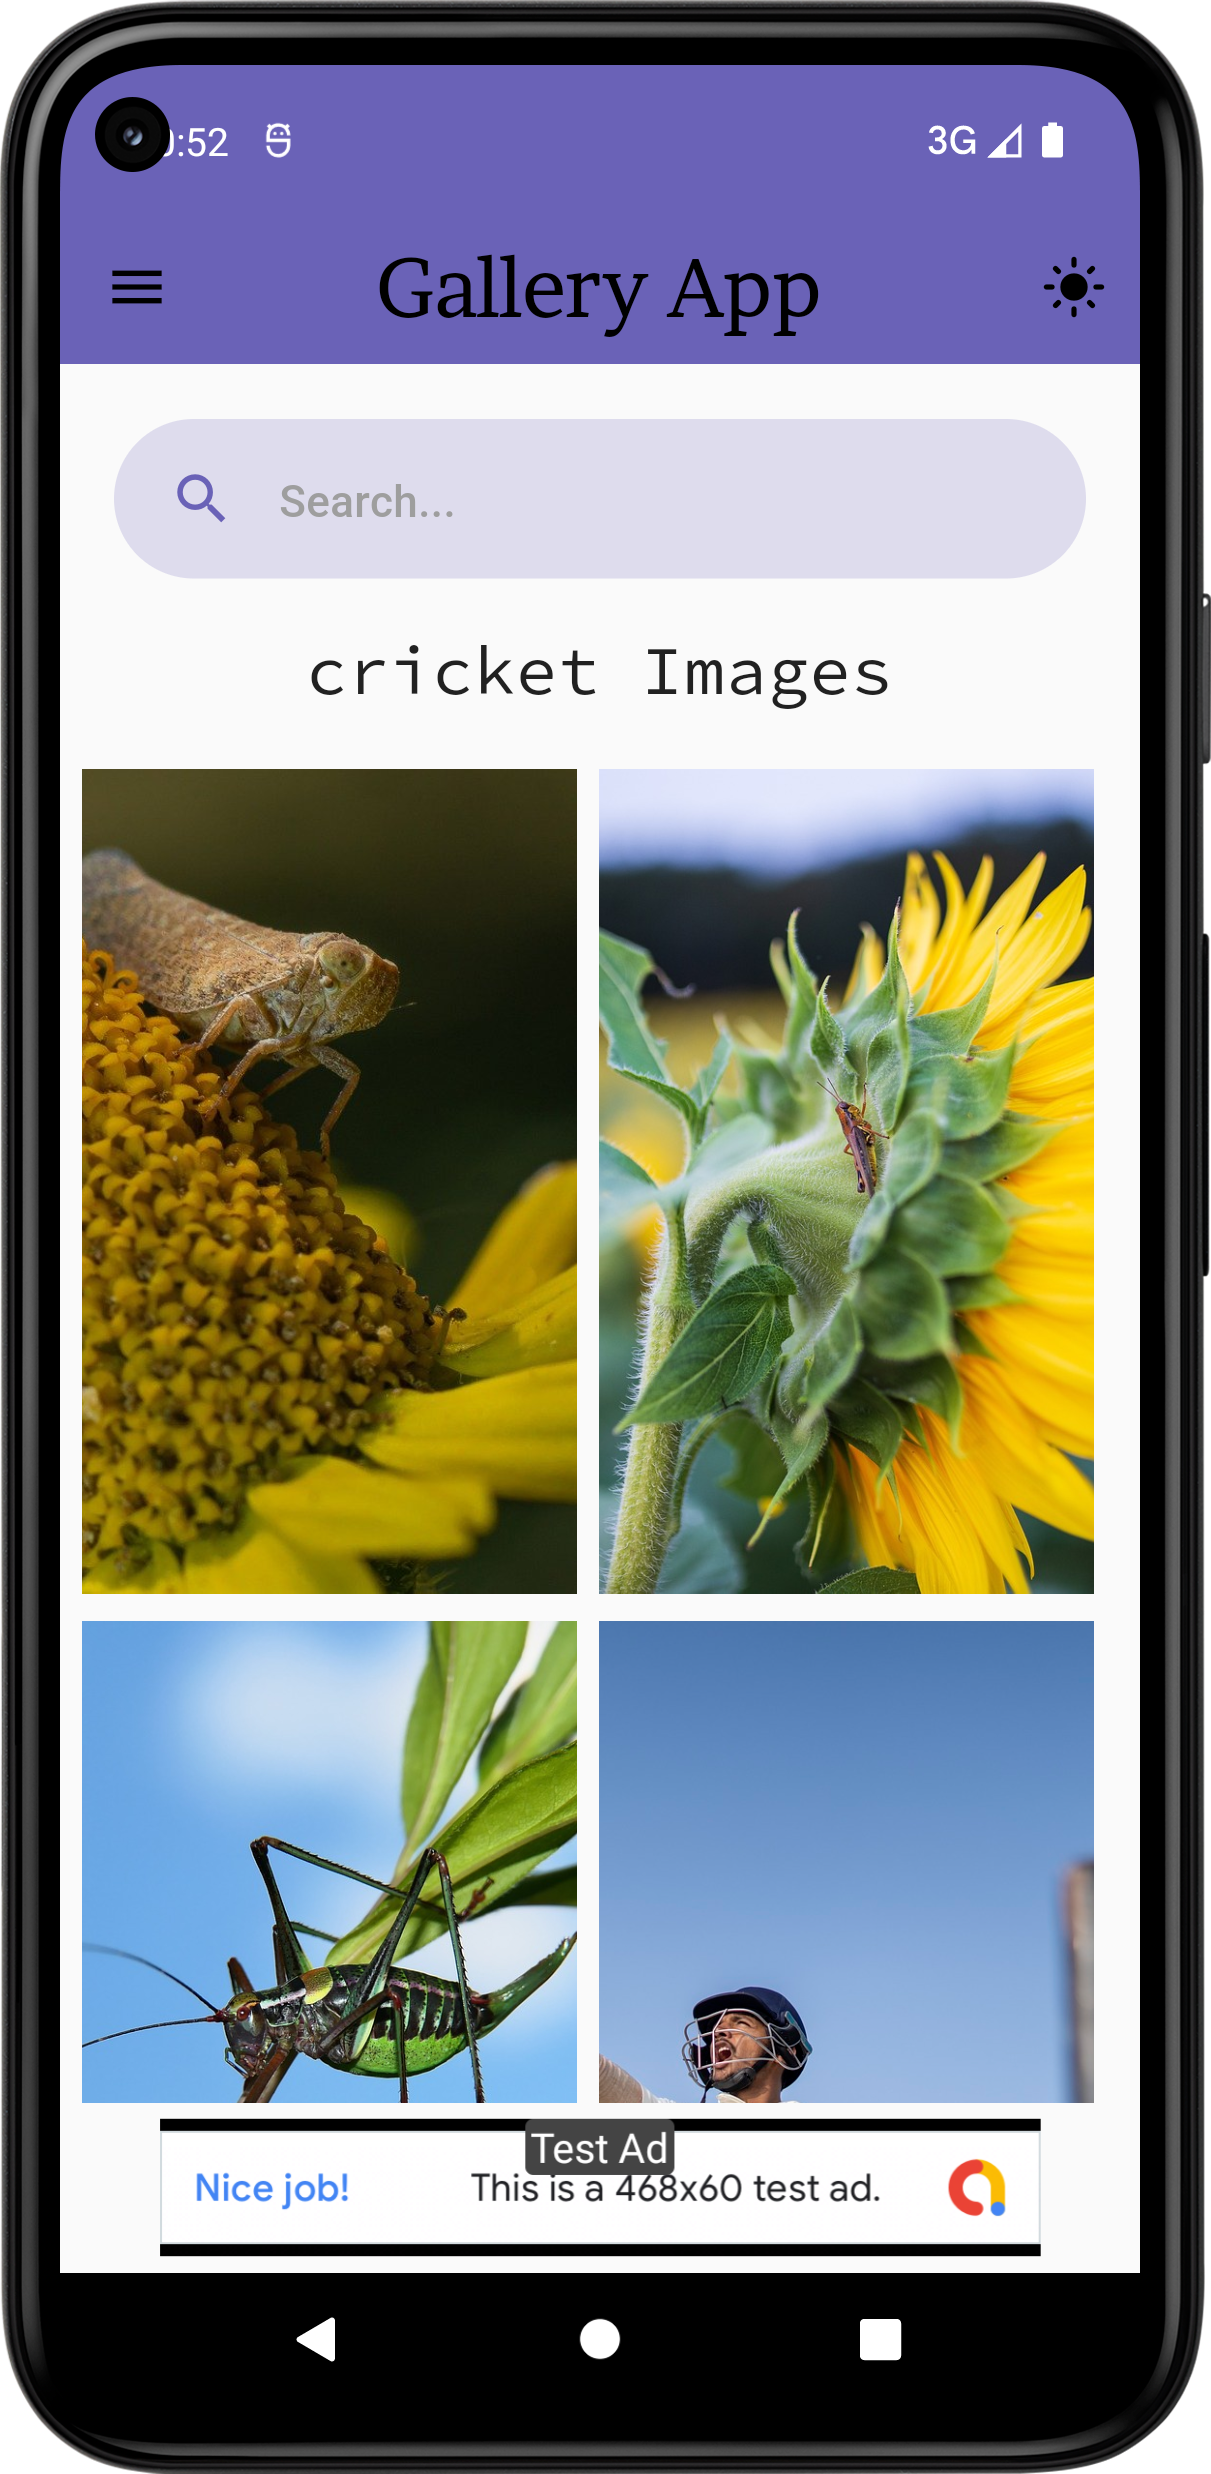
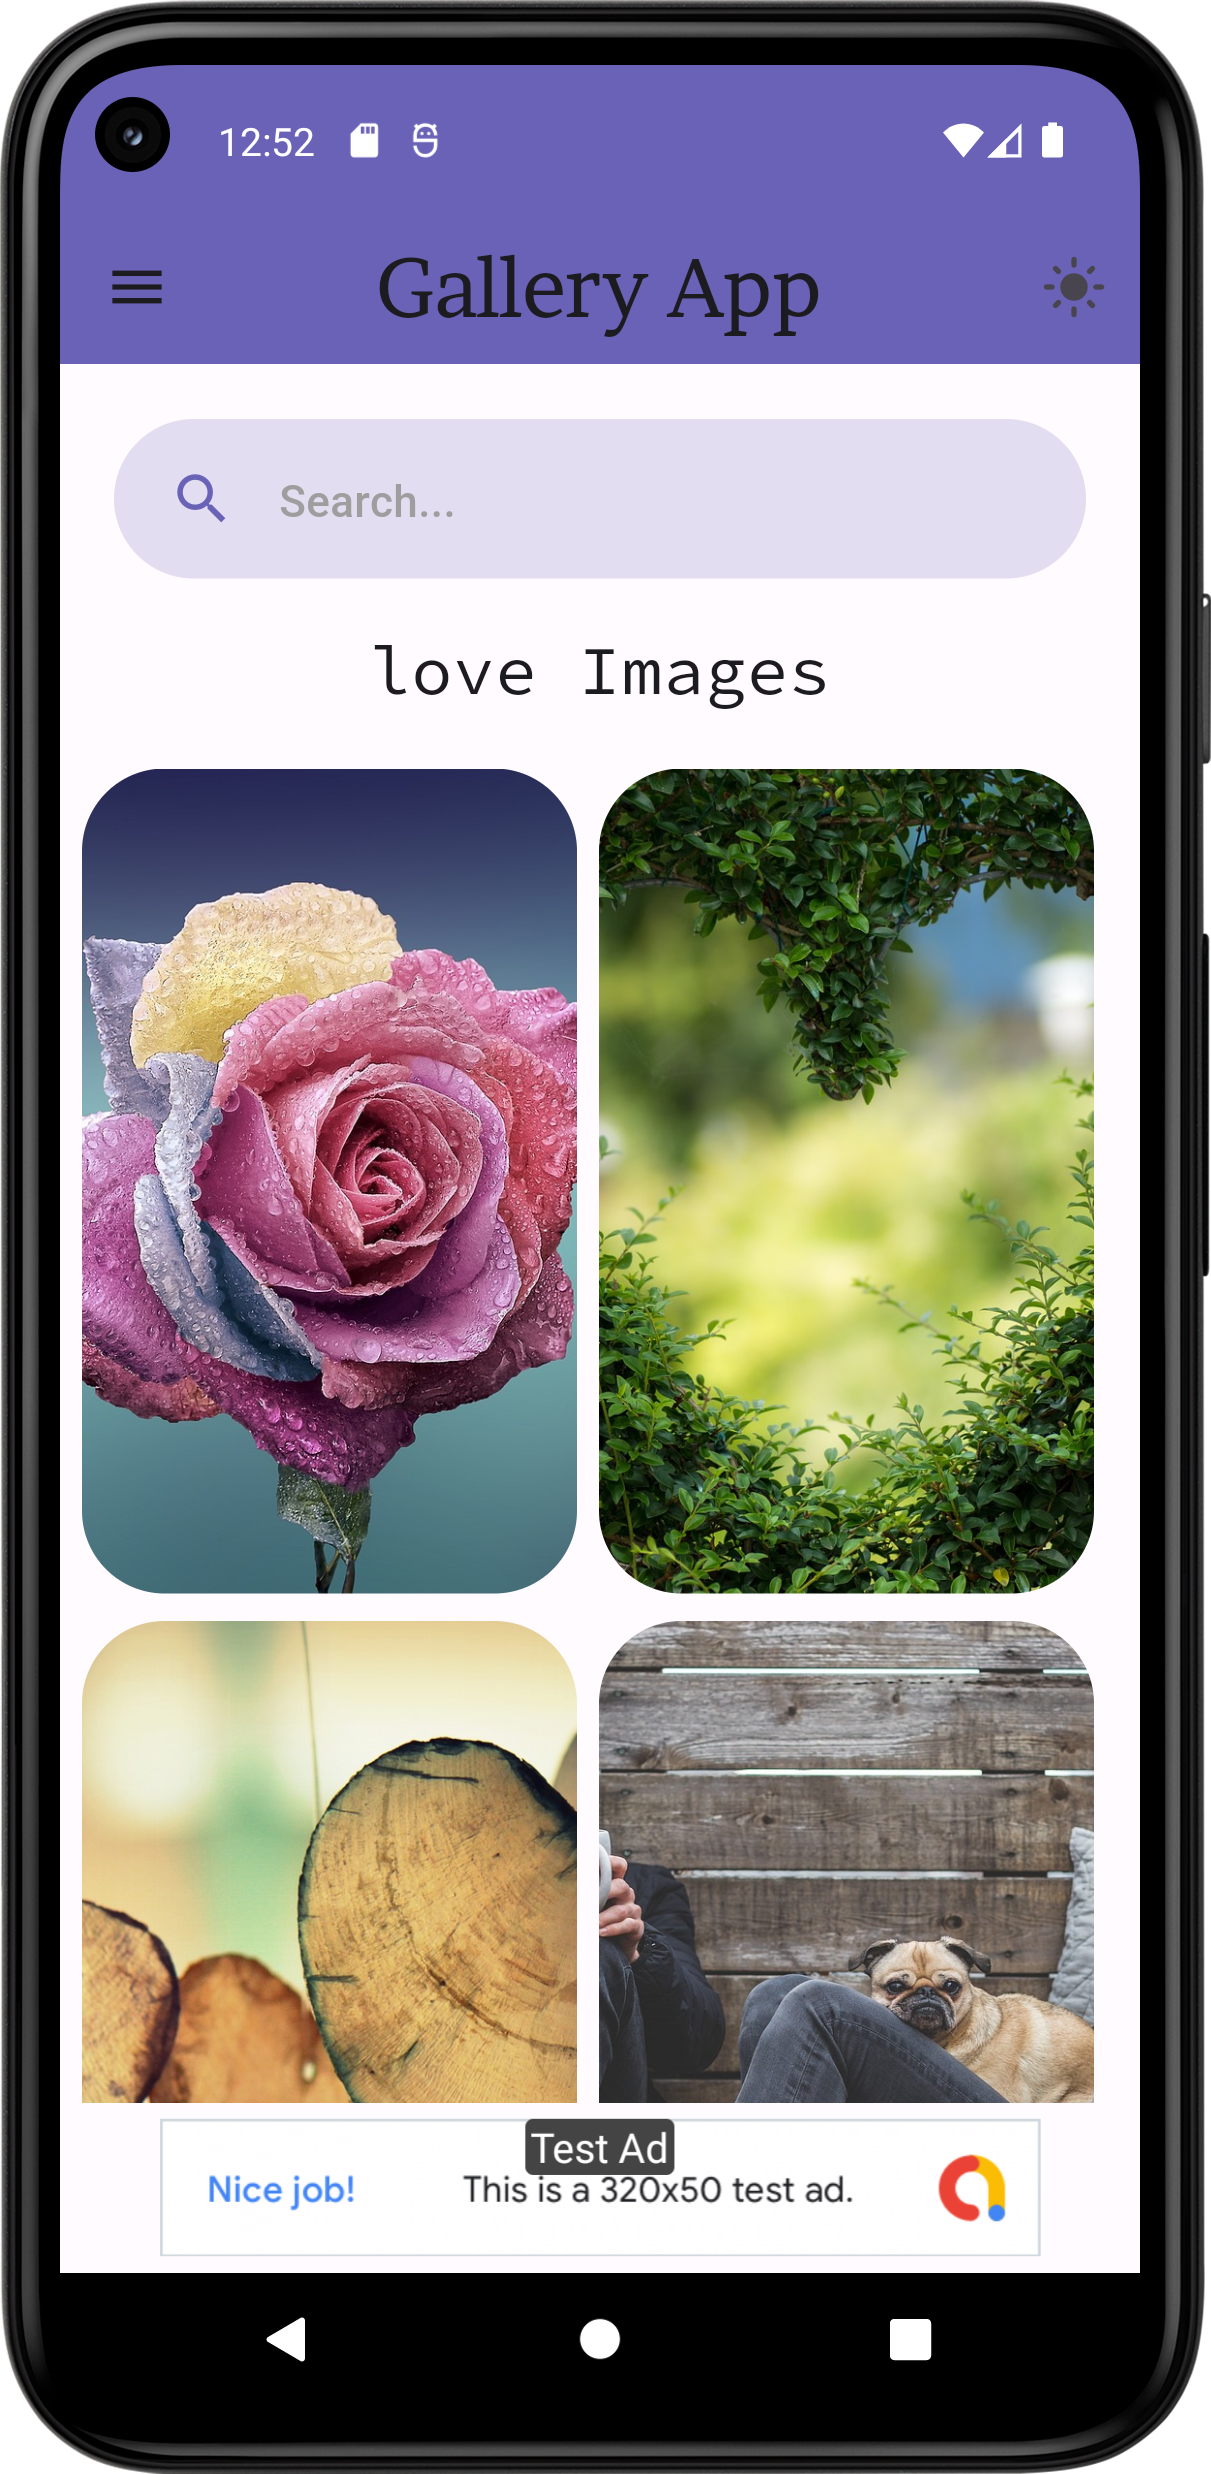
new updata

diff --git a/lib/views/screens/ImagesPage.dart b/lib/views/screens/ImagesPage.dart
@@ -1,6 +1,5 @@
 import 'package:flutter/material.dart';
 import 'package:async_wallpaper/async_wallpaper.dart';
-import 'package:image_downloader/image_downloader.dart';
 
 class ImagesPage extends StatefulWidget {
   const ImagesPage({super.key});
@@ -19,7 +18,7 @@ class _ImagesPageState extends State<ImagesPage> {
         mainAxisAlignment: MainAxisAlignment.center,
         children: [
           Stack(
-            alignment: Alignment(0,0.9),
+            alignment: const Alignment(0,0.9),
             children: [
               SizedBox(
                 height: size.height,
@@ -44,13 +43,6 @@ class _ImagesPageState extends State<ImagesPage> {
                       style: TextStyle(fontSize: 30, color: Colors.black),
                     ),
                   ),
-                  // ElevatedButton(
-                  //   onPressed: () {},
-                  //   child: Text(
-                  //     "Download",
-                  //     style: TextStyle(fontSize: 30, color: Colors.black),
-                  //   ),
-                  // ),
                 ],
               ),
             ],

diff --git a/lib/views/Global.dart b/lib/views/Global.dart
@@ -1,3 +1,3 @@
 class Global{
-  static String images = 'games';
+  static String images = 'love';
 }

diff --git a/README.md b/README.md
@@ -24,6 +24,10 @@ copyright ©[Nirmal Madhani](https://github.com/nirmalmadhani2002).<br>
 <img src="assets/images/images3.png" width="250px">
 <img src="assets/images/images4.png" width="250px">
 <img src="assets/images/images5.png" width="250px">
+<img src="assets/images/images6.png" width="250px">
+<img src="assets/images/images7.png" width="250px">
+<img src="assets/images/images8.png" width="250px">
+<img src="assets/images/images9.png" width="250px">
 
 ### Made with  IN INDIA.
 
